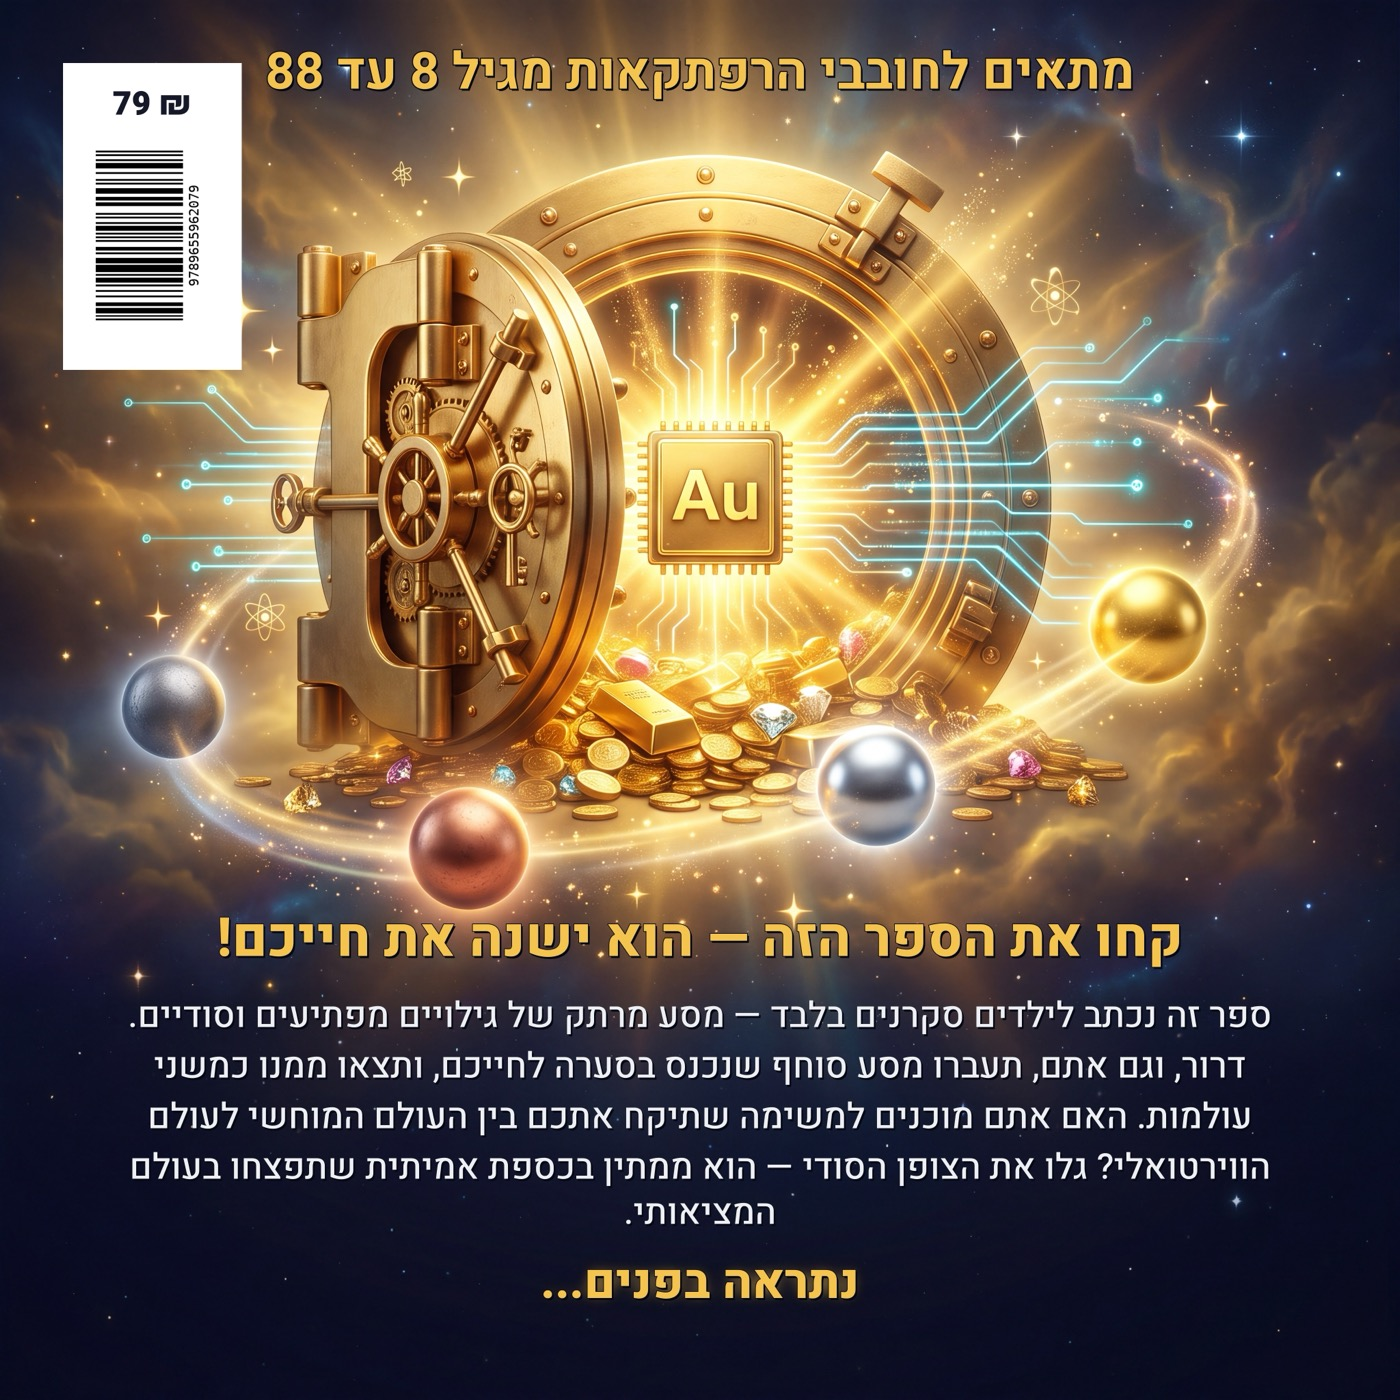
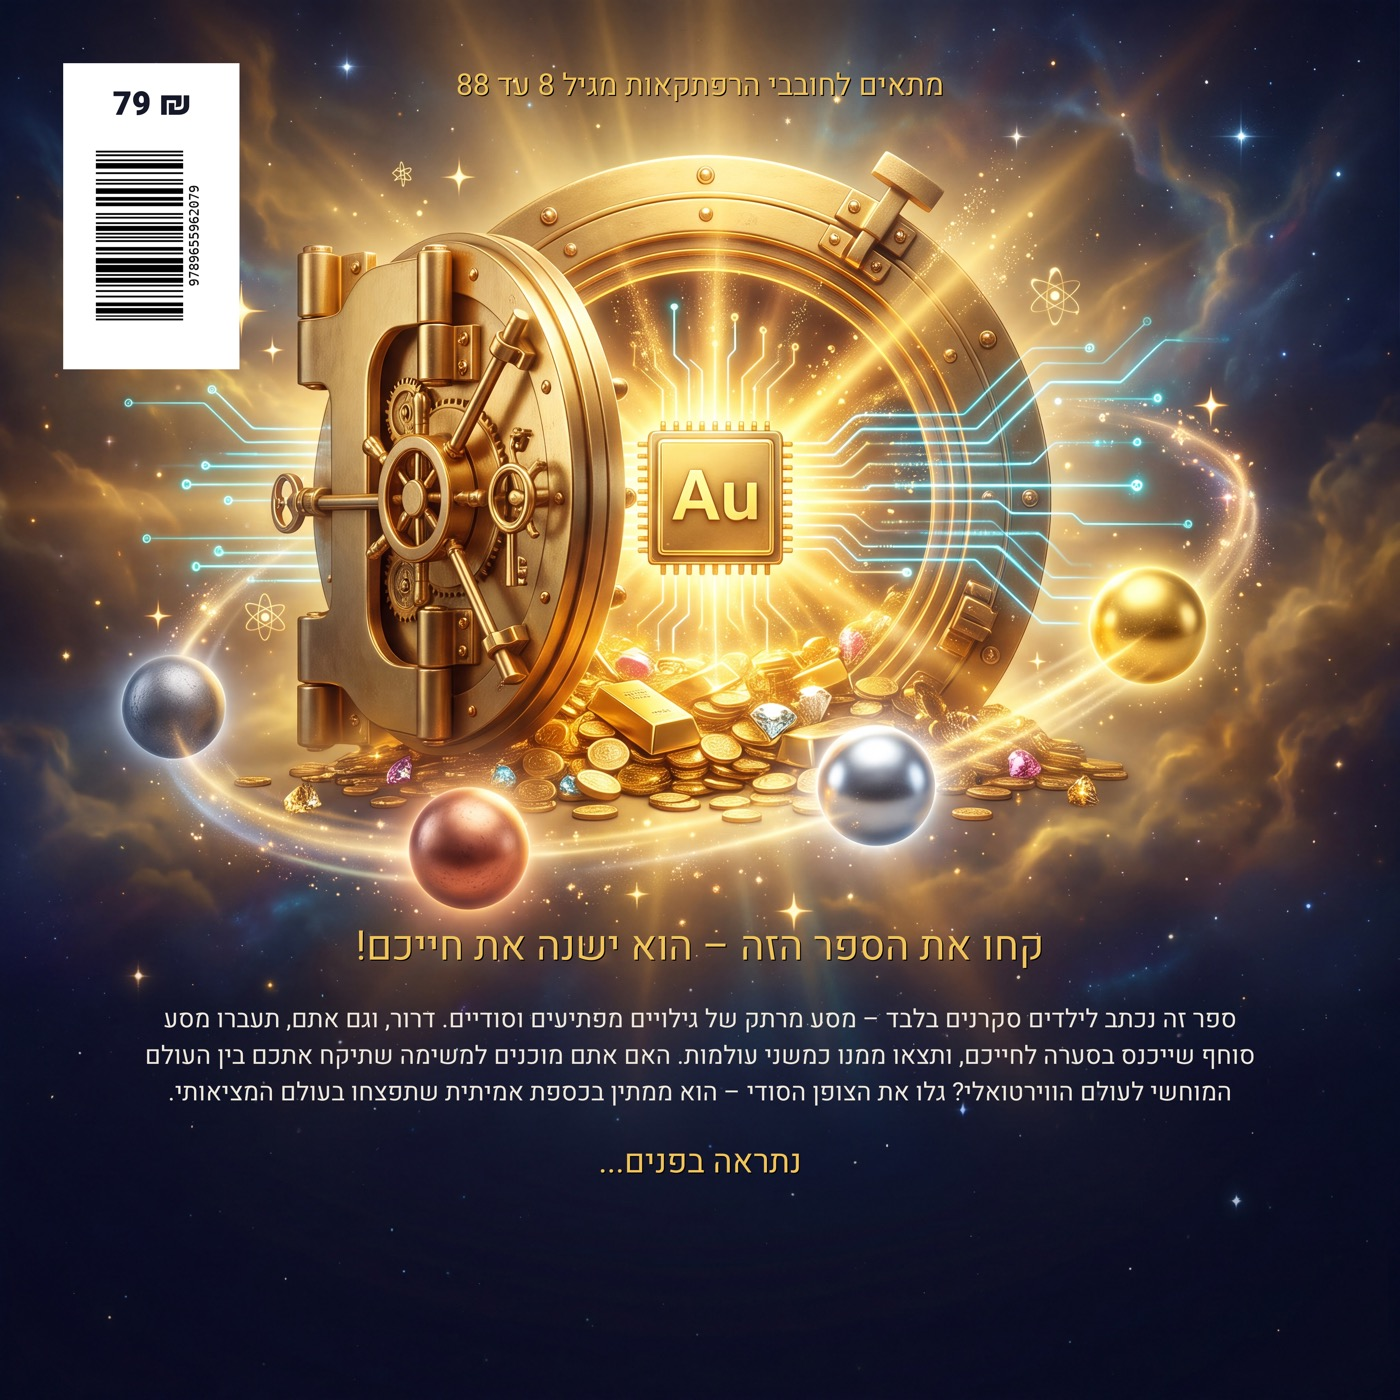
Corrected book: updated back cover text (proofed) on same art + scientific advisor (MSc שגיא עידן) in colophon

Changed region(s): [[0.0921, 0.645, 0.9214, 0.9521], [0.1843, 0.0307, 0.8293, 0.0921], [0.0614, 0.1229, 0.1536, 0.215]]

diff --git a/public/books/he-mtukan/index.html b/public/books/he-mtukan/index.html
@@ -80,11 +80,12 @@ body{margin:0;background:var(--bg);font-family:"Heebo","Arial Hebrew","Helvetica
           <div class="row"><span>הוצאה לאור</span><b>TAKTIKA</b></div>
           <div class="row"><span>מהדורה ראשונה</span><b>2026</b></div>
           <div class="row"><span>עריכה לשונית</span><b>ד״ר יפעת דרורי</b></div>
+          <div class="row"><span>ייעוץ מדעי</span><b>MSc שגיא עידן</b></div>
           <div class="row"><span>בית דפוס</span><b>דפוס פרינטיב ירושלים</b></div>
           <div class="row"><span>מסת&quot;ב (ISBN)</span><b>978-965-596-207-9</b></div>
         </div>
         <div class="fpnotice">© כל הזכויות שמורות ליצחק קריספל, 2026. אין לשכפל, להעתיק, לצלם, להקליט, לתרגם, לאחסן במאגר מידע, לשדר או לקלוט בכל דרך או אמצעי אלקטרוני, אופטי או מכני — כל חלק שהוא מהחומר שבספר זה. שימוש מסחרי מכל סוג בחומר הכלול בספר זה אסור בהחלט אלא ברשות מפורשת ובכתב מהמחבר.</div>
-        <div class="fpversion">גרסה מעודכנת ליום שני 27/07/2026 בשעה 00:09</div>
+        <div class="fpversion">גרסה מעודכנת ליום שני 27/07/2026 בשעה 00:24</div>
         </div><div class="pnum">עמוד 3</div></div>
 <div class="page title"><div class="tinner"><div class="quote">&quot;אם הצלחתי לראות שונה, זה רק משום שהסתכלתי עמוק בתוך עצמי, כי הספר הזה הוא אני.&quot; דרור!</div></div><div class="pnum">עמוד 4</div></div>
 <div class="page text"><div class="tx"><p>&quot;כל ההתחלות קשות, אבל אחר כך מעניין יותר&quot; קוראים יקרים, הספר הזה נולד בשבילכם, והוא יישא אתכם למסע קסום בתוך המטריצה – אל סודות, צפנים וגילויים על העולם ועל המוח האנושי. בדרככם תעברו חוויות מרתקות כדי לעזור לדרור לפתח קוד ששמו &quot;זיכרון חיים&quot;.</p><p>התאזרו בסבלנות ובתושייה, בצעו את המשימות לפי הסדר, ורשמו את התשובות בדף המצורף בסוף הספר. המסע הקסום מתחיל עכשיו...</p></div><div class="pnum">עמוד 5</div></div>
